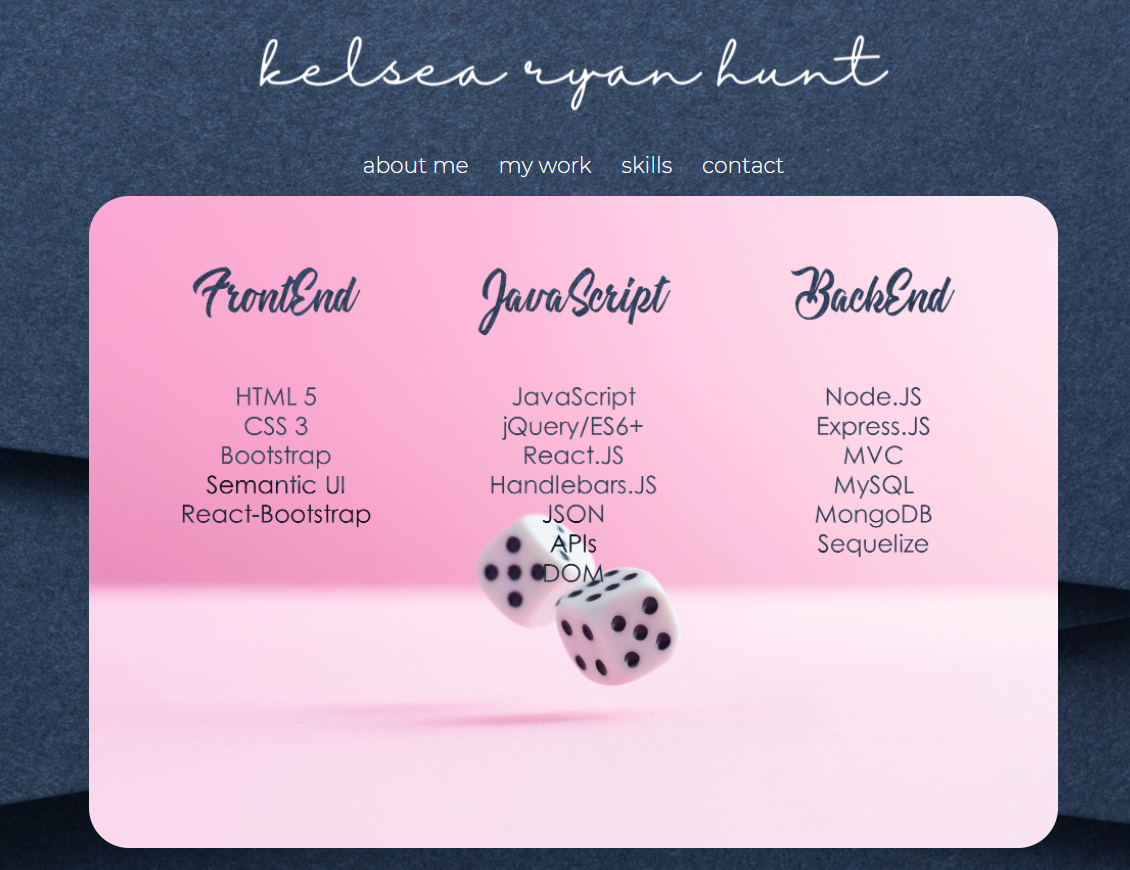
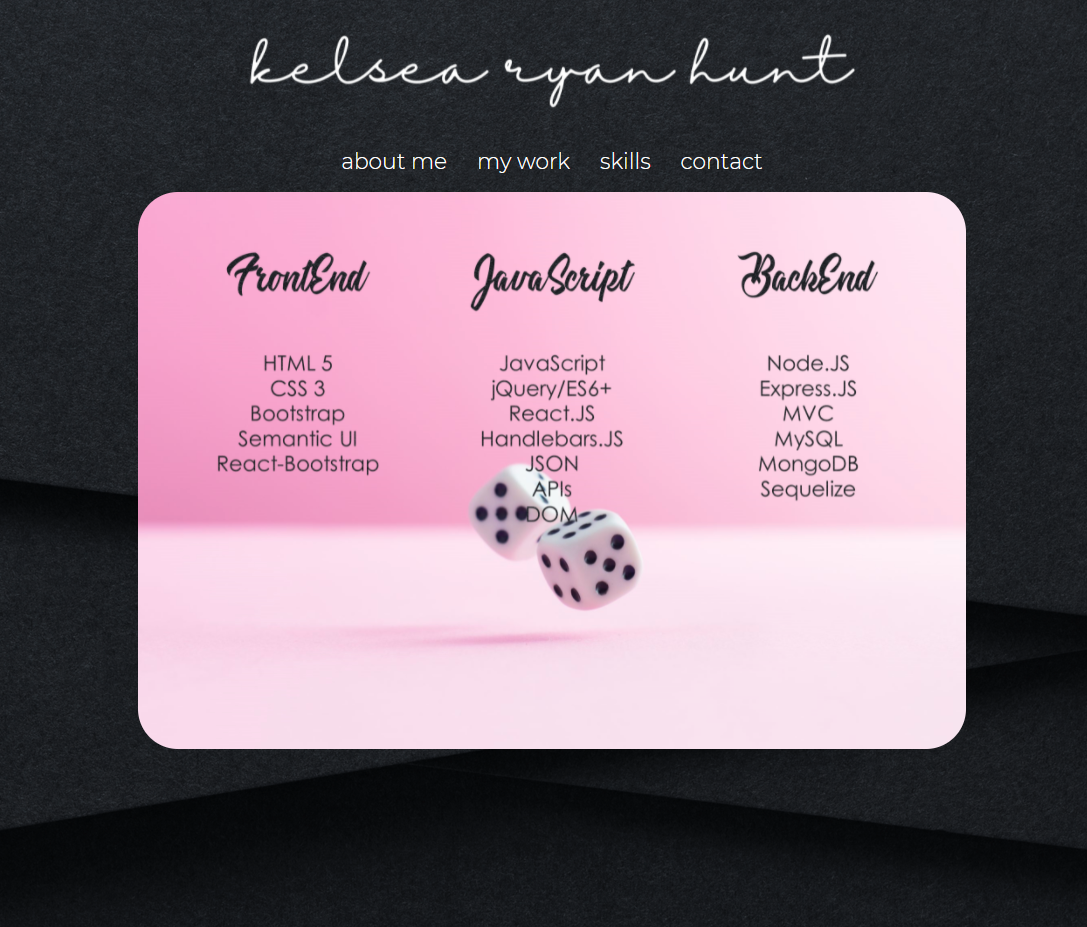
Readme and tweaking on images

diff --git a/src/index.css b/src/index.css
@@ -22,8 +22,8 @@ header > img {
   display: block;
   margin-left: auto;
   margin-right: auto;
-  height: 75vh;
-  width: auto;
+  height: auto;
+  width: 75vw;
   border-radius: 40px;
 }
 
@@ -35,7 +35,6 @@ header > img {
 }
 
 .carousel .carousel-item > img {
-  height: 75vh;
   width: auto;
   border-radius: 60px;
 }

diff --git a/README.md b/README.md
@@ -3,6 +3,15 @@
 ![Screenshot](src/images/screenshot.png)
 ![Screenshot](src/images/screenshot1.png)
 ![Screenshot](src/images/screenshot2.png)
+![Screenshot](src/images/screenshot3.png)
+
+## Live Application can be found here
+
+https://kelsearyanhunt-portfolio.netlify.app/#/
+
+## Licenses
+
+![licenseMIT](https://img.shields.io/badge/license-MIT-9cf?style=for-the-badge&logo=appveyor)
 
 # Getting Started with Create React App
 
